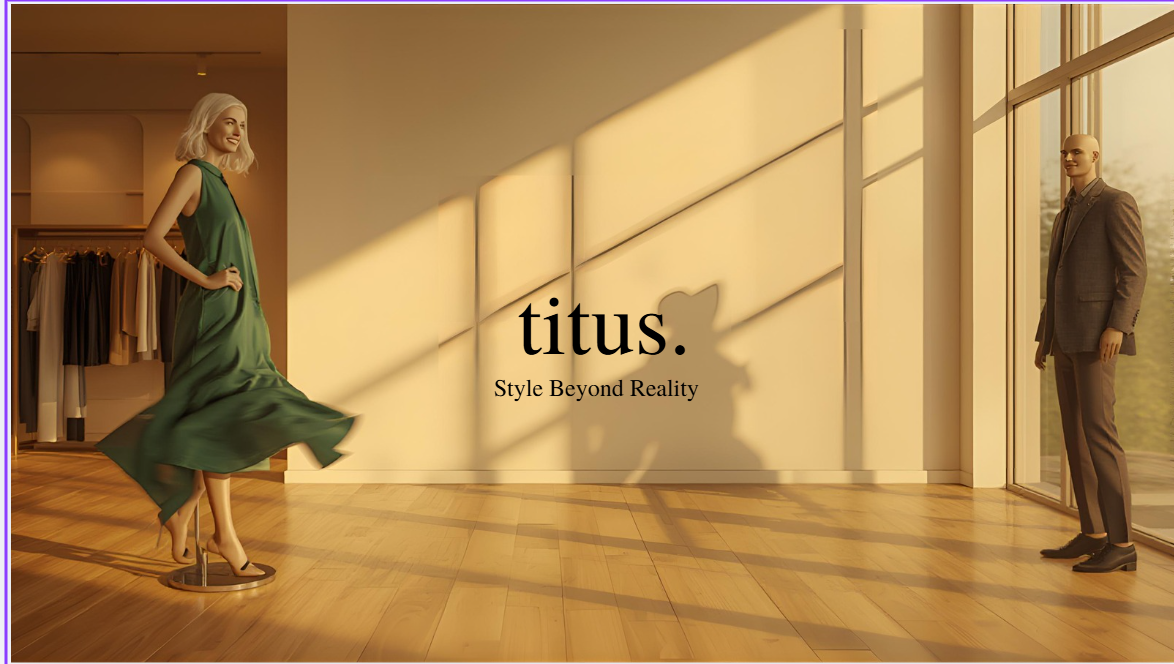
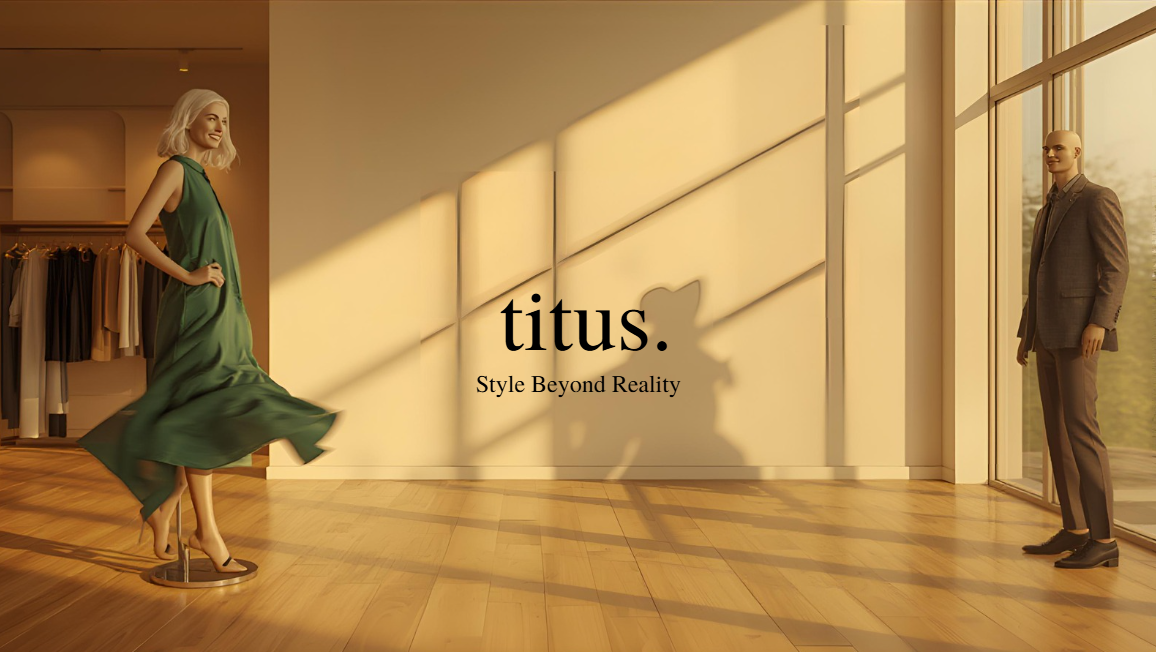
Add files via upload

diff --git a/clothstore.html b/clothstore.html
@@ -1,0 +1,175 @@
+<!DOCTYPE html>
+<html>
+<head>
+  <meta charset="utf-8" />
+  <title>Virtual Clothing Store</title>
+  <script src="https://aframe.io/releases/1.7.1/aframe.min.js"></script>
+  <style>
+    body { margin: 0; overflow: hidden; }
+  </style>
+</head>
+
+<body>
+  <a-scene background="color: #111">
+
+    <!-- ============= ALL ASSETS IN ONE SINGLE BLOCK ============= -->
+    <a-assets timeout="15000">
+      <a-asset-item id="manModel"   src="t-pose_cleaned_male_scan.glb"></a-asset-item>
+      <a-asset-item id="greenShirt" src="green_shirt_hood_scan_medpoly.glb"></a-asset-item>
+      <a-asset-item id="yellowPolo" src="realistic_yellow_polo_shirt.glb"></a-asset-item>
+      <a-asset-item id="pant"       src="pant_5.glb"></a-asset-item>
+      <a-assets timeout="10000">
+      <a-asset-item id="manModel" src="t-pose_cleaned_male_scan.glb"></a-asset-item>
+    </a-assets>
+      <video id="tryOnVideo" src="" autoplay loop muted playsinline crossorigin="anonymous"></video>
+    </a-assets>
+
+    <!-- ===================== LIGHTING ===================== -->
+    <a-light type="ambient"     color="#ffffff" intensity="0.7"></a-light>
+    <a-light type="directional" color="#ffffff" intensity="1.2" position="2 6 3" cast-shadow="true"></a-light>
+    <a-light type="directional" color="#aaddff" intensity="0.5" position="-4 3 2"></a-light>
+    <a-light type="point"       color="#ffe8c0" intensity="1.2" distance="7" position="3 3 -2"></a-light>
+    <a-light type="point"       color="#ffffff" intensity="0.9" distance="6" position="-3 3 -3"></a-light>
+    <!-- ===================================================== -->
+
+    <!-- Store Floor -->
+    <a-plane position="0 -1 -5" rotation="-90 0 0" width="20" height="20" color="#333" roughness="0.9"></a-plane>
+
+    <!-- Back Wall -->
+    <a-plane position="0 3 -10" rotation="0 0 0" width="20" height="10" color="#1a1a2e"></a-plane>
+
+    <!-- Store Title -->
+    <a-text value="Virtual Clothing Store"
+      position="0 4.5 -6" align="center" color="#f0e6d3" width="12">
+    </a-text>
+
+    <!-- ============= CLOTHING RACK FRAME ============= -->
+    <a-cylinder position="-3 1.5 -4.5"  radius="0.05" height="4"   rotation="0 0 90" color="#aaaaaa"></a-cylinder>
+    <a-cylinder position="-5 0.25 -4.5" radius="0.05" height="1.5" color="#aaaaaa"></a-cylinder>
+    <a-cylinder position="-1 0.25 -4.5" radius="0.05" height="1.5" color="#aaaaaa"></a-cylinder>
+
+    <!-- ============= CLOTHING ITEM 1: Green Hoodie ============= -->
+<a-entity id="greenShirtModel"
+  gltf-model="#greenShirt"
+  position="-8 1.5 -4.5"
+  rotation="0 0 0"
+  scale="1 1 1">
+</a-entity>
+
+<a-text value="Green Hoodie\n$29.99"
+  position="-4.5 0 -4.0"
+  align="center" color="#ffffff" width="4">
+</a-text>
+
+
+<!-- ============= CLOTHING ITEM 2: Yellow Polo ============= -->
+<a-entity id="yellowPoloModel"
+  gltf-model="#yellowPolo"
+  position="-3.3 -0.68 -4.5"
+  rotation="0 0 0"
+  scale="1 1 1">
+</a-entity>
+
+<a-text value="Yellow Polo\n$59.99"
+  position="-3.3 0 -4.0"
+  align="center" color="#ffffff" width="4">
+</a-text>
+
+
+<!-- ============= CLOTHING ITEM 3: Pants ============= -->
+<a-entity id="pantModel"
+  gltf-model="#pant"
+  position="-2.1.0 0.57 -7.87"
+  rotation="0 180 0"
+  scale="0.85 0.85 0.85 ">
+</a-entity>
+
+<a-text value="Black Pants\n$39.99"
+  position="-2.1 0 -4.0"
+  align="center" color="#ffffff" width="4">
+</a-text>
+    <!-- ============= 3D HUMAN MODEL ============= -->
+    
+
+    <a-entity
+      id="humanModel"
+      gltf-model="#manModel"
+      position="3 1 -2"
+      rotation="0 -20 0"
+      scale="2.5 2.5 2.5"
+      animation-mixer="clip: *; loop: repeat">
+    </a-entity>
+
+    <!-- ============= TRY-ON SCREEN ============= -->
+    <a-box   position="0 2 -8.1" width="8.6" height="4.6" depth="0.1" color="#222222"></a-box>
+    <a-video src="Screenshot 2026-03-06 151648.png"   position="0 2 -8" width="8" height="4"></a-video>
+    <a-text value="Virtual Try-On Screen"
+      position="0 4.6 -8" align="center" color="#f0e6d3" width="7">
+    </a-text>
+
+    <!-- ============= CAMERA ============= -->
+    <a-camera position="0 1.6 2" look-controls wasd-controls>
+      <a-cursor color="#ffdd88" fuse="false"></a-cursor>
+    </a-camera>
+
+  </a-scene>
+
+  <script>
+    // ── Auto-scale: fits any GLB to a target height automatically ──────────────
+    // This handles models exported in mm, cm, or m — no manual scale guessing needed.
+    function autoScale(el, targetHeight) {
+      el.addEventListener('model-loaded', () => {
+        const mesh = el.getObject3D('mesh');
+        if (!mesh) return;
+        const box = new AFRAME.THREE.Box3().setFromObject(mesh);
+        const size = new AFRAME.THREE.Vector3();
+        box.getSize(size);
+        if (size.y === 0) return;
+        const factor = targetHeight / size.y;
+        el.setAttribute('scale', `${factor} ${factor} ${factor}`);
+        console.log(`✅ ${el.id} loaded — auto-scaled ×${factor.toFixed(4)}`);
+      });
+    }
+
+    // Human → 1.8 m tall
+    const humanEl = document.querySelector('#humanModel');
+    autoScale(humanEl, 1.8);
+
+    humanEl.addEventListener('model-error', () => {
+      console.warn('⚠️ Human model not found. Check: t-pose_cleaned_male_scan.glb is in the same folder and you are using a local server (not file://)');
+      // Draw a simple fallback mannequin
+      const scene = document.querySelector('a-scene');
+      const fb = document.createElement('a-entity');
+      fb.setAttribute('position', '3 -1 -4.5');
+      fb.innerHTML = `
+        <a-sphere position="0 2.7 0"    radius="0.22"                           color="#f5cba7"></a-sphere>
+        <a-box    position="0 1.8 0"    width="0.55" height="0.9"  depth="0.3"  color="#888"></a-box>
+        <a-box    position="-0.4 1.75 0" width="0.18" height="0.8" depth="0.18" color="#888" rotation="0 0 15"></a-box>
+        <a-box    position="0.4 1.75 0"  width="0.18" height="0.8" depth="0.18" color="#888" rotation="0 0 -15"></a-box>
+        <a-box    position="-0.18 0.85 0" width="0.22" height="0.9" depth="0.22" color="#555"></a-box>
+        <a-box    position="0.18 0.85 0"  width="0.22" height="0.9" depth="0.22" color="#555"></a-box>
+      `;
+      scene.appendChild(fb);
+      document.querySelector('a-text[value="Model Preview"]')
+        ?.setAttribute('value', 'Model Preview\n(glb missing — use local server)');
+    });
+
+    // Clothing items → 1.0 m tall for rack display
+    ['greenShirtModel', 'yellowPoloModel', 'pantModel'].forEach(id => {
+      const el = document.querySelector(`#${id}`);
+      if (el) {
+        autoScale(el, 1.0);
+        el.addEventListener('model-error', () =>
+          console.warn(`⚠️ ${id} GLB not found — check filename`)
+        );
+      }
+    });
+
+    // Video autoplay fallback
+    window.addEventListener('load', () => {
+      const vid = document.querySelector('#tryOnVideo');
+      if (vid && vid.src) vid.play().catch(e => console.warn('Video blocked:', e));
+    });
+  </script>
+</body>
+</html>